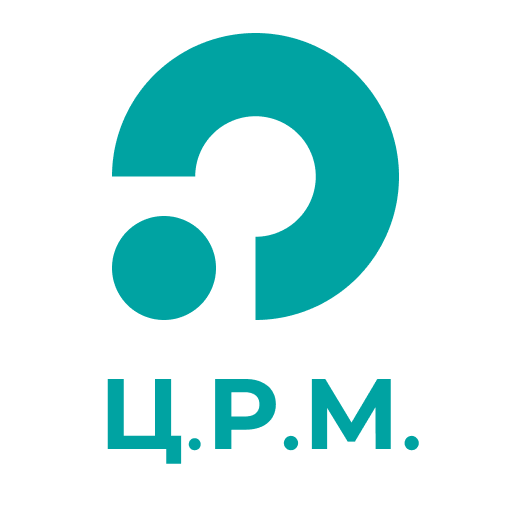
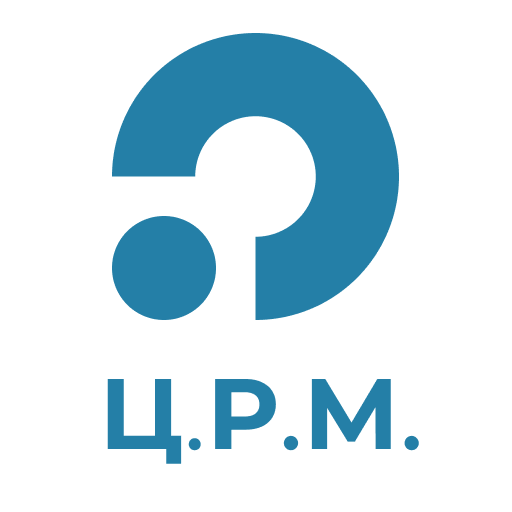
update assets

diff --git a/src/components/Authorization/LoginPage/LoginPage.scss b/src/components/Authorization/LoginPage/LoginPage.scss
@@ -8,7 +8,7 @@
   --padding-top: 130px;
   padding-top: var(--padding-top);
   height: calc(100vh - var(--padding-top));
-  background: linear-gradient(180deg, #edeec0 0%, #00a3a2 40%, #87a3a2 100%);
+  background: linear-gradient(180deg, #edeec0 0%, #247fa7 40%, #87a3a2 100%);
 
   &__background {
     width: 100vw;
@@ -30,7 +30,7 @@
         left: -10%;
         top: -80%;
         clip-path: circle();
-        background: linear-gradient(0deg, #edeec0 0%, #00a3a2 100%);
+        background: linear-gradient(0deg, #edeec0 0%, #247fa7 100%);
       }
 
       &--2 {
@@ -38,7 +38,7 @@
         left: -30vw;
         top: 20vh;
         clip-path: circle();
-        background: linear-gradient(180deg, #edeec0 0%, #00a3a2 100%);
+        background: linear-gradient(180deg, #edeec0 0%, #247fa7 100%);
       }
 
       &--3 {
@@ -46,7 +46,7 @@
         left: 60%;
         top: 40%;
         clip-path: circle();
-        background: linear-gradient(120deg, #ffffff 0%, #edeec0 10%, #00a3a2 90%);
+        background: linear-gradient(120deg, #ffffff 0%, #edeec0 10%, #247fa7 90%);
       }
     }
   }

diff --git a/src/utils/MainWindow/MainWindow.scss b/src/utils/MainWindow/MainWindow.scss
@@ -17,7 +17,7 @@
 
   .main-window__link {
     transition: 100ms ease-in-out;
-    color: darken($button__background--inverted, 8%) !important;
+    color: $button__background--inverted !important;
     cursor: pointer;
     // text-decoration: underline;
   }
